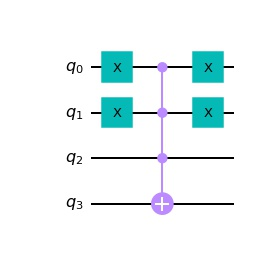
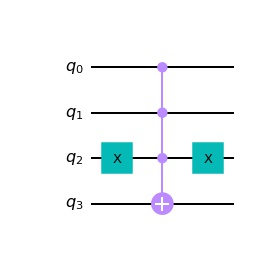
Fixed reverse qubit order.

diff --git a/lib/algoritms.py b/lib/algoritms.py
@@ -20,7 +20,7 @@ def oracle(val, n):
     oracle_qc = QuantumCircuit(n+1)
     
     # Next, format 'val' as a binary string of length 'n', padded with zeros:
-    b_str = format(val, '0'+str(n)+'b')
+    b_str = format(pow(2,n)-1-val, '0'+str(n)+'b')
     # Next, we place the first X-gates. Each digit in our binary string 
     # corresponds to a qubit, if the digit is 0, we do nothing, if it's 1
     # we apply an X-gate to that qubit:
